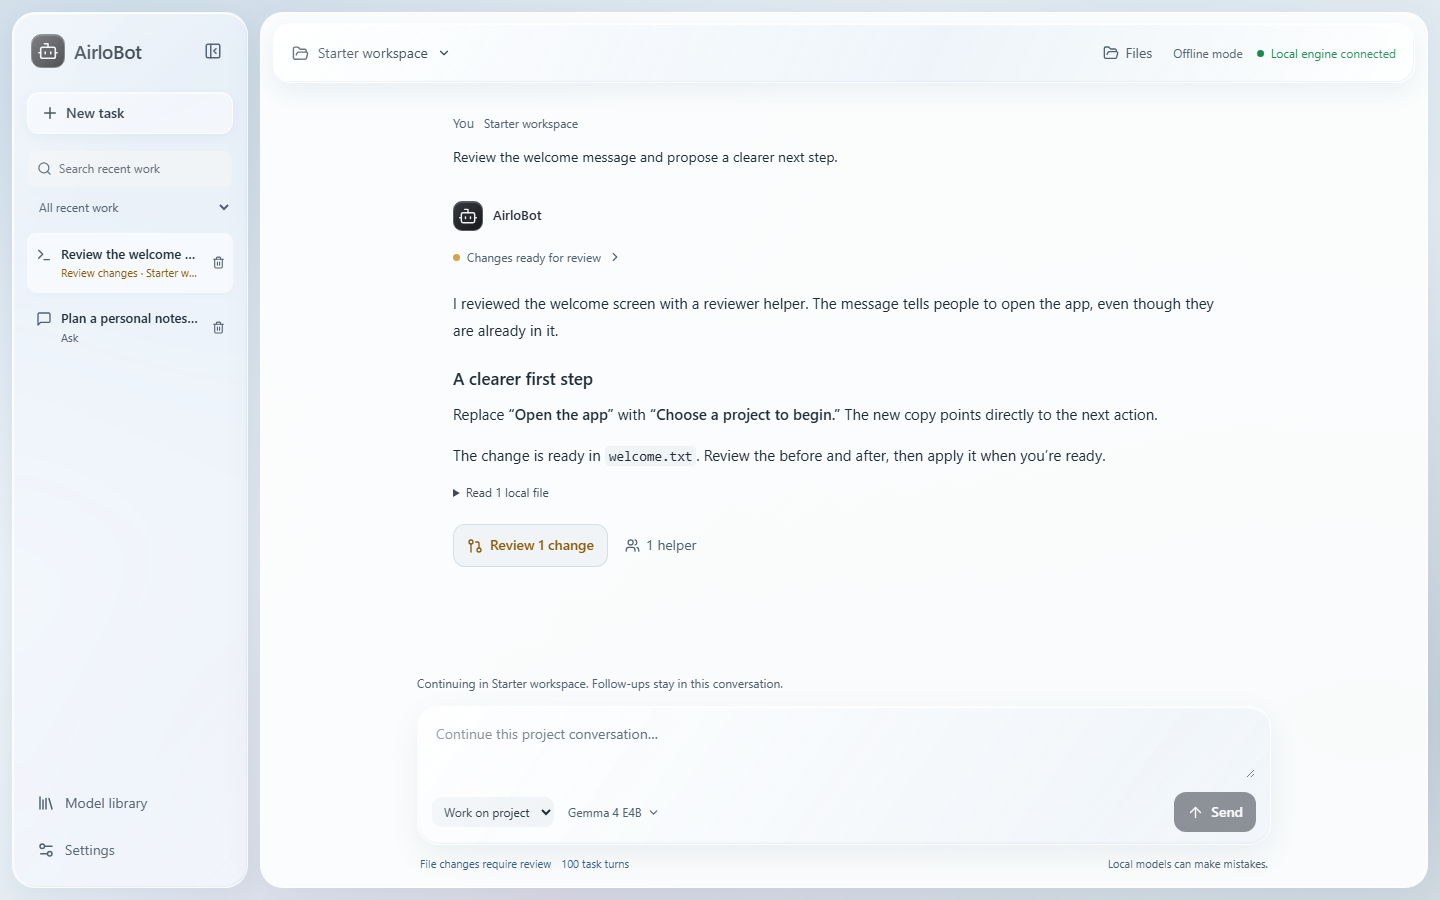
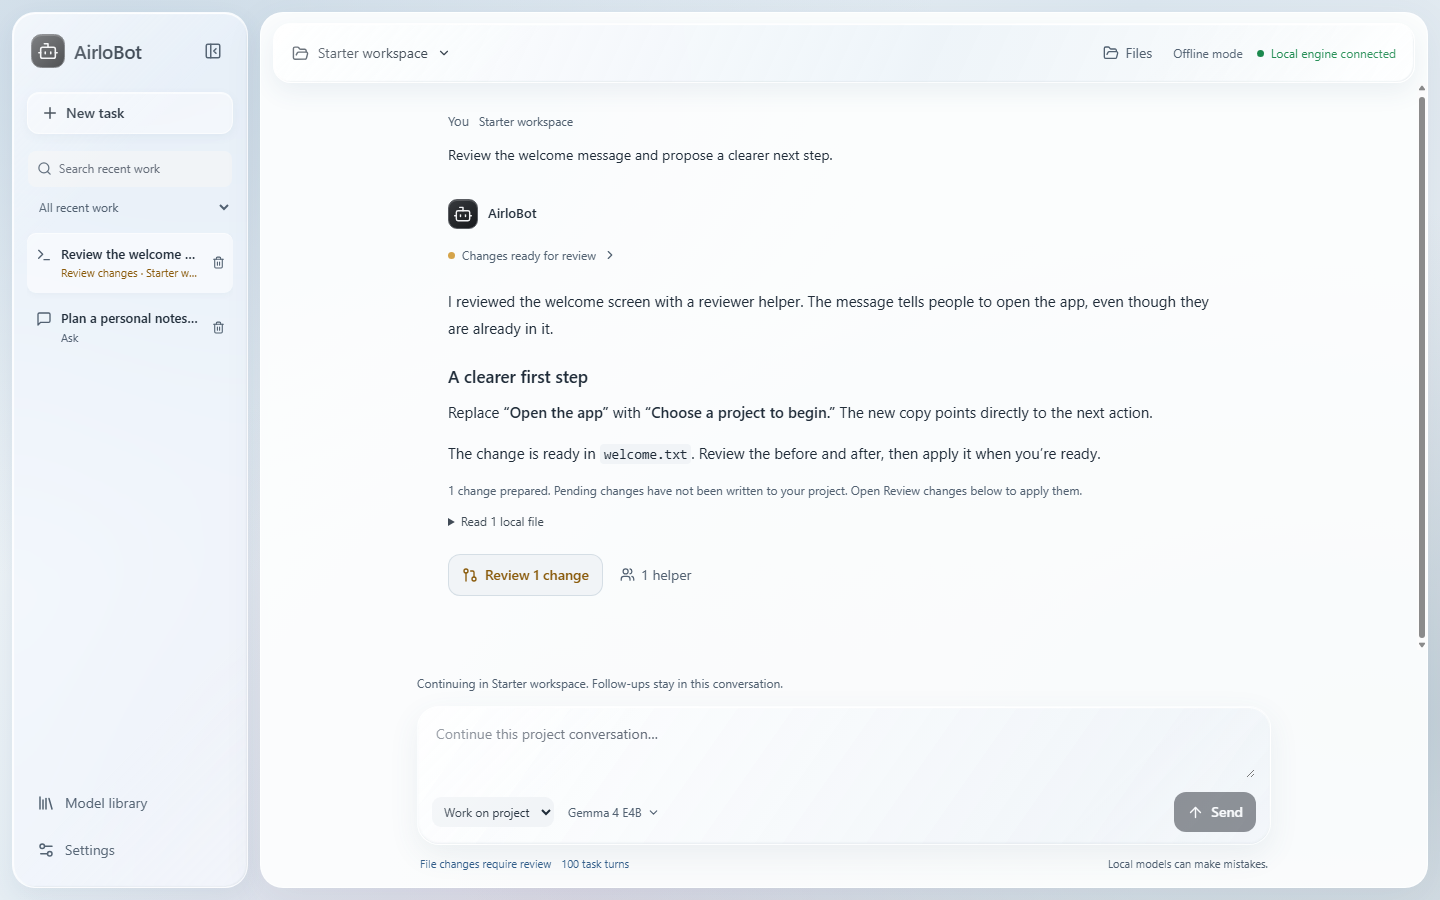
Refresh product screenshots for review controls, scrolling and settings

diff --git a/src/Settings.jsx b/src/Settings.jsx
@@ -2,6 +2,7 @@ import React, { useEffect, useState } from 'react';
 import { Check, FolderOpen, Moon, ShieldCheck, Sparkles, Sun } from 'lucide-react';
 import { api, Toggle } from './ui.jsx';
 import HardwareSettings from './HardwareSettings.jsx';
+import { version } from '../package.json';
 
 export default function Settings({ state, status, busy, attempt, refresh, notify }) {
   const s = state.settings;
@@ -43,6 +44,6 @@ export default function Settings({ state, status, busy, attempt, refresh, notify
       <div className="setting-row"><span><strong>Reduce motion</strong><small>System motion preferences are respected too.</small></span><Toggle label="Reduced motion" checked={s.reducedMotion} disabled={!!busy} onChange={reducedMotion => save({ reducedMotion })}/></div>
     </section>
     </div></div>
-    <p className="about">AirloBot 0.8 · Local models, reviewed actions.</p>
+    <p className="about">AirloBot {version} · Local models, reviewed actions.</p>
   </div>;
 }

diff --git a/README.md b/README.md
@@ -92,6 +92,19 @@ For build requests, the agent can prepare a folder and its source files together
 
 ![Dark theme with a proposed file change, readable diff, and explicit Apply and Reject controls](docs/media/review-dark.png)
 
+If the agent is still working, **Stop and review** keeps the prepared changes and unlocks approval once generation stops. Duplicate-proposal loops also return control for review automatically.
+
+<details>
+<summary><strong>See review and conversation controls</strong></summary>
+
+![Review panel explaining why approval is locked, with Stop and review available](docs/media/review-in-progress.png)
+
+Chats follow new text automatically. Scroll up to read earlier messages without being pulled away, then choose **Jump to latest** to resume following.
+
+![A sample conversation with Jump to latest available while reading earlier text](docs/media/chat-follow-scroll.png)
+
+</details>
+
 ### Bring your own local models
 
 Add an existing GGUF or find a public model on Hugging Face. AirloBot loads files directly and verifies downloads before adding them to the library. The library currently supports public, ungated, single-file GGUF models.
@@ -107,6 +120,15 @@ Search results show monthly repository downloads, community likes, the repositor
 ![Model download choices with a local memory-fit estimate, using synthetic model and hardware data](docs/media/library-downloads.png)
 
 ![Light theme showing the local model library and model selection controls](docs/media/library-light.png)
+
+<details>
+<summary><strong>See model and hardware settings</strong></summary>
+
+Settings uses category panels, keeping engine controls and optional hardware guidance together in **Models & hardware**.
+
+![Models and hardware settings in Liquid Glass with local engine controls and optional hardware guidance](docs/media/settings-models.png)
+
+</details>
 
 <details>
 <summary><strong>Preview the appearance options</strong></summary>
@@ -129,7 +151,7 @@ The bundled engine has remote access, built-in agent tools, request logging, and
 
 ## Current scope
 
-AirloBot 0.8 supports local text chat, persistent project conversations, folder creation, and reviewed UTF-8 text/Markdown/source edits up to 1 MiB. Helpers run sequentially, with up to two helpers per turn. New turns default to **100 shared model turns and 60 minutes**, both configurable. Word/PDF editing, terminal commands, project test execution, and autonomous writes are not available.
+AirloBot 0.8.2 supports local text chat, persistent project conversations, folder creation, and reviewed UTF-8 text/Markdown/source edits up to 1 MiB. Helpers run sequentially, with up to two helpers per turn. New turns default to **100 shared model turns and 60 minutes**, both configurable. Word/PDF editing, terminal commands, project test execution, and autonomous writes are not available.
 
 The app is tested on Windows. CI checks the service and production build on Windows and Linux; this does not imply a supported Linux desktop release. See the [user guide](docs/USER_GUIDE.md) for model requirements, exact limits, and troubleshooting.
 

diff --git a/docs/media/README.md b/docs/media/README.md
@@ -1,15 +1,18 @@
 # Product image provenance
 
-These six PNGs show the unmodified AirloBot 0.8 production renderer with fixed synthetic content. Conversation text, task results, project paths, hardware descriptions, model inventory, popularity counts, dates, and connection status are demo fixtures. They do not claim a live model interaction or expose a user's saved state.
+These nine PNGs show the unmodified AirloBot 0.8.2 production renderer with fixed synthetic content. Conversation text, task results, project paths, hardware descriptions, model inventory, popularity counts, dates, and connection status are demo fixtures. They do not claim a live model interaction or expose a user's saved state.
 
 | Image | View |
 | --- | --- |
 | `workspace-glass.png` | Sample project conversation awaiting review in Liquid Glass. |
 | `review-dark.png` | Sample file-change review in Dark. |
+| `review-in-progress.png` | Approval lock explanation and Stop and review while a sample task is running. |
+| `chat-follow-scroll.png` | Jump to latest while reading earlier text in a sample streaming chat. |
 | `library-light.png` | Example local-model inventory in Light. |
 | `appearance-glass.png` | Appearance options and accessibility controls. |
 | `library-downloads.png` | Download chooser and estimated memory fit using synthetic hardware. |
 | `library-search.png` | Search metrics, per-file size range, and checked memory guidance. |
+| `settings-models.png` | Category panels, local engine controls, and optional hardware guidance. |
 
 Recreate from the repository root:
 
@@ -19,8 +22,9 @@ npx --no-install electron scripts/capture-readme.cjs
 npx --no-install electron scripts/library-ui-test.cjs
 Copy-Item test-results/library-ui/chooser-dark.png docs/media/library-downloads.png
 Copy-Item test-results/library-ui/search-dark.png docs/media/library-search.png
+Copy-Item test-results/library-ui/settings-models-glass.png docs/media/settings-models.png
 ```
 
 The capture process uses its own ignored test profile, reads only the built app assets, and blocks every external network request. It does not read `data`, start an inference engine, or perform project file changes. No screenshot is taken from the user's running desktop app.
 
-Before publishing regenerated images, inspect all six for layout and unintended content. Do not replace these images with real chats, hardware profiles, local file paths, credentials, or personal project screenshots. Other private captures remain ignored by Git.
+Before publishing regenerated images, inspect all nine for layout and unintended content. Do not replace these images with real chats, hardware profiles, local file paths, credentials, or personal project screenshots. Other private captures remain ignored by Git.
